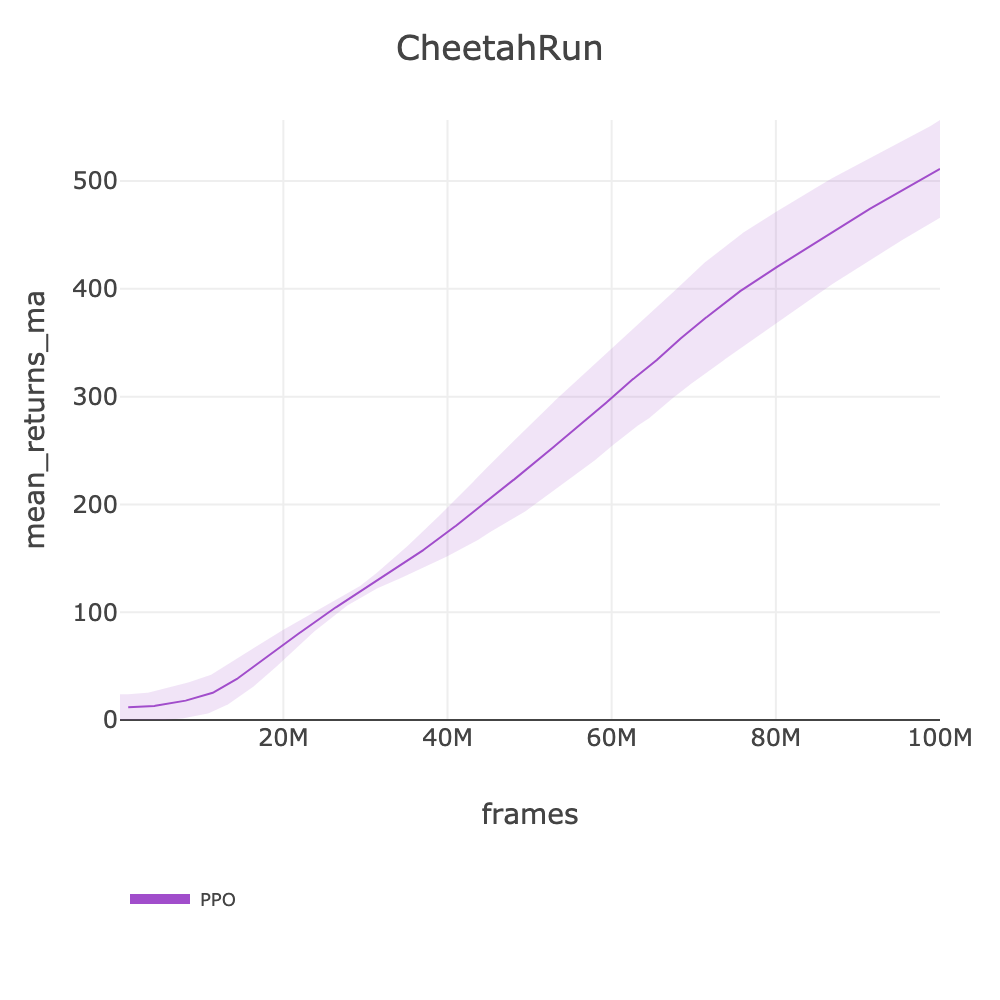
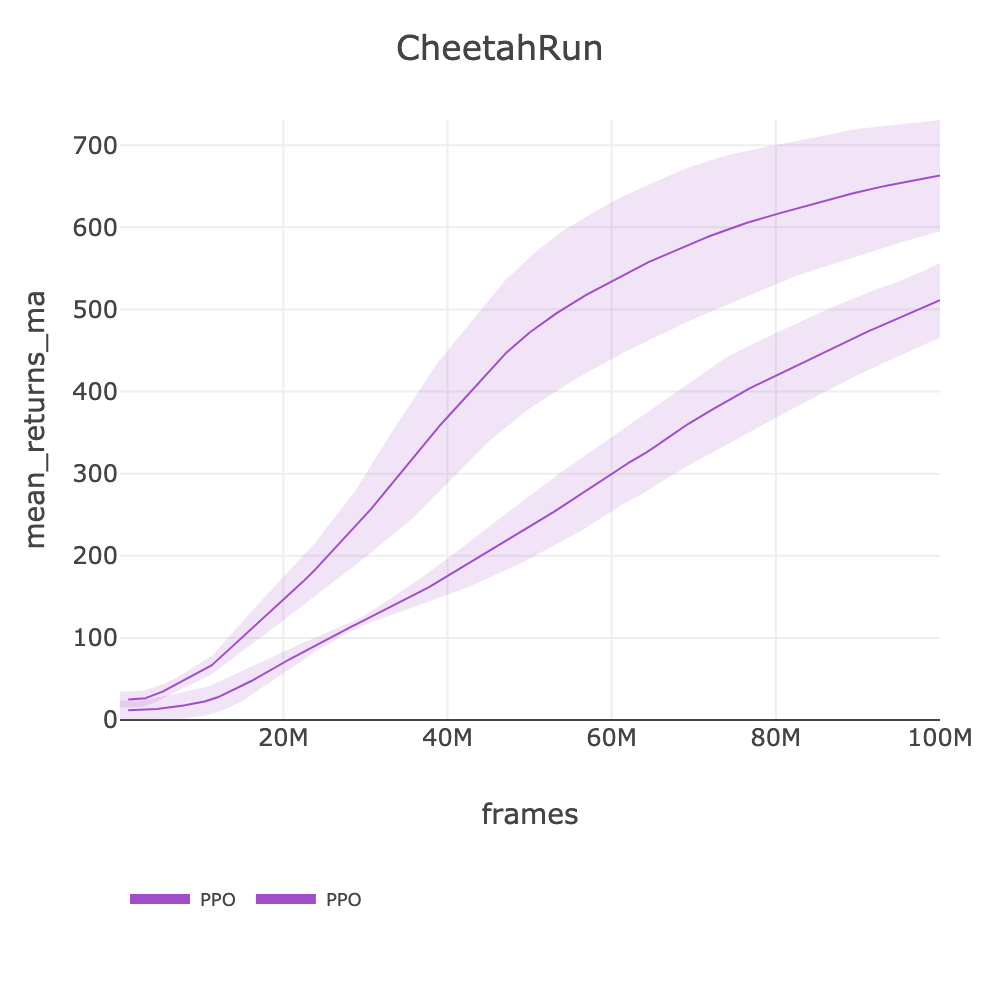
feat: intake PPO v2 CheetahRun (663, ⚠) + HumanoidStand (29, ❌)

diff --git a/docs/BENCHMARKS.md b/docs/BENCHMARKS.md
@@ -912,7 +912,7 @@ source .env && uv run slm-lab run-remote --gpu \
 | playground/CartpoleSwingupSparse | PPO | ❌ | 27.54 | ppo_playground | [ppo_playground_cartpoleswingupsparse_2026_03_11_142924](https://huggingface.co/datasets/SLM-Lab/benchmark-dev/tree/main/data/ppo_playground_cartpoleswingupsparse_2026_03_11_142924) | 425 | 11200 | 100M | 2h 29m |
 | | CrossQ | 🔄 | - | crossq_playground | - | | - | - | - |
 | | SAC | 🔄 | - | sac_playground_hard | - | | - | - | - |
-| playground/CheetahRun | PPO | ❌ | 511.27 | ppo_playground | [ppo_playground_cheetahrun_2026_03_11_095607](https://huggingface.co/datasets/SLM-Lab/benchmark-dev/tree/main/data/ppo_playground_cheetahrun_2026_03_11_095607) | 850 | 12170 | 100M | 2h 17m |
+| playground/CheetahRun | PPO | ⚠ | 662.97 | ppo_playground_v2 | [ppo_playground_v2_cheetahrun_2026_03_11_182514](https://huggingface.co/datasets/SLM-Lab/benchmark-dev/tree/main/data/ppo_playground_v2_cheetahrun_2026_03_11_182514) | 850 | 13990 | 100M | 1h 59m |
 | | CrossQ | 🔄 | - | crossq_playground | - | | - | - | - |
 | | SAC | 🔄 | - | sac_playground | - | | - | - | - |
 | playground/FingerSpin | PPO | ⚠ | 500.95 | ppo_playground_v2 | [ppo_playground_v2_fingerspin_2026_03_11_182614](https://huggingface.co/datasets/SLM-Lab/benchmark-dev/tree/main/data/ppo_playground_v2_fingerspin_2026_03_11_182614) | 600 | 15920 | 100M | 1h 45m |
@@ -936,7 +936,7 @@ source .env && uv run slm-lab run-remote --gpu \
 | playground/HumanoidRun | PPO | ❌ | 3.81 | ppo_playground | [ppo_playground_humanoidrun_2026_03_11_152710](https://huggingface.co/datasets/SLM-Lab/benchmark-dev/tree/main/data/ppo_playground_humanoidrun_2026_03_11_152710) | 130 | 13900 | 100M | 2h 0m |
 | | CrossQ | 🔄 | - | crossq_playground_vhard | - | | - | - | - |
 | | SAC | 🔄 | - | sac_playground | - | | - | - | - |
-| playground/HumanoidStand | PPO | ❌ | 16.23 | ppo_playground_loco | [ppo_playground_loco_humanoidstand_2026_03_11_152703](https://huggingface.co/datasets/SLM-Lab/benchmark-dev/tree/main/data/ppo_playground_loco_humanoidstand_2026_03_11_152703) | 700 | 15610 | 100M | 1h 47m |
+| playground/HumanoidStand | PPO | ❌ | 28.59 | ppo_playground_loco_v2 | [ppo_playground_loco_v2_humanoidstand_2026_03_11_182722](https://huggingface.co/datasets/SLM-Lab/benchmark-dev/tree/main/data/ppo_playground_loco_v2_humanoidstand_2026_03_11_182722) | 700 | 13910 | 100M | 2h 0m |
 | | CrossQ | 🔄 | - | crossq_playground_vhard | - | | - | - | - |
 | | SAC | 🔄 | - | sac_playground | - | | - | - | - |
 | playground/HumanoidWalk | PPO | ❌ | 9.20 | ppo_playground | [ppo_playground_humanoidwalk_2026_03_11_152704](https://huggingface.co/datasets/SLM-Lab/benchmark-dev/tree/main/data/ppo_playground_humanoidwalk_2026_03_11_152704) | 500 | 11570 | 100M | 2h 24m |
